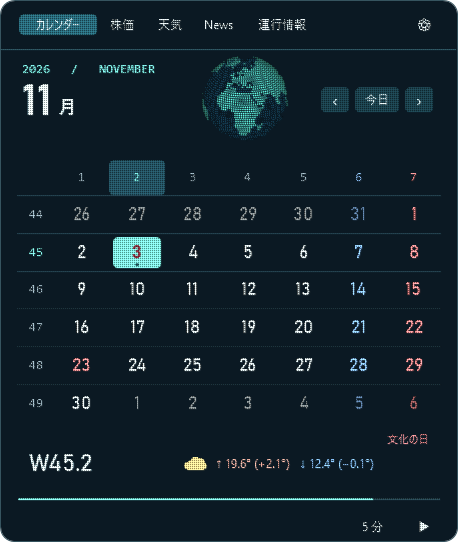
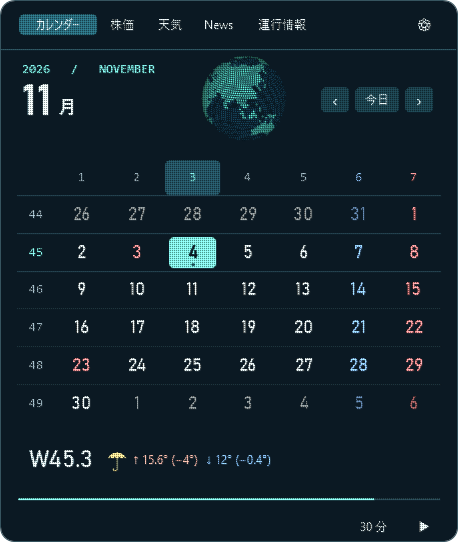
Align calendar summary and holiday on one row with a tighter weather gap

diff --git a/src/Calendar.xaml b/src/Calendar.xaml
@@ -73,13 +73,13 @@
       <Grid Name="Dates" Grid.Row="1" Margin="16,10,16,8"/>
       <Border Grid.Row="2" Background="#152E39" CornerRadius="7" Margin="16,0,16,7" Padding="12,0">
         <Grid>
-          <Grid.ColumnDefinitions><ColumnDefinition Width="100"/><ColumnDefinition/></Grid.ColumnDefinitions>
-          <TextBlock Name="SelectedDate" FontSize="24" FontFamily="Bahnschrift" VerticalAlignment="Center" Margin="0,8,0,0"/>
-          <StackPanel Name="TodayWeatherGroup" Grid.Column="1" Orientation="Horizontal" HorizontalAlignment="Center" VerticalAlignment="Center" Margin="0,8,0,0">
+          <Grid.ColumnDefinitions><ColumnDefinition Width="78"/><ColumnDefinition Width="Auto"/><ColumnDefinition/></Grid.ColumnDefinitions>
+          <TextBlock Name="SelectedDate" FontSize="24" FontFamily="Bahnschrift" VerticalAlignment="Center" HorizontalAlignment="Left"/>
+          <StackPanel Name="TodayWeatherGroup" Grid.Column="1" Orientation="Horizontal" HorizontalAlignment="Left" VerticalAlignment="Center">
             <TextBlock Name="TodayWeather" Text="" FontSize="26" FontFamily="Segoe UI Symbol" Foreground="#F4DD8E" VerticalAlignment="Center"/>
-            <StackPanel Name="TodayTemperatures" Orientation="Horizontal" Margin="9,0,0,0" VerticalAlignment="Center"><TextBlock Name="TodayHigh" FontSize="12" Foreground="#F4B09F"/><TextBlock Name="TodayLow" FontSize="12" Foreground="#8EC5FF" Margin="10,0,0,0"/></StackPanel>
+            <StackPanel Name="TodayTemperatures" Orientation="Horizontal" Margin="6,0,0,0" VerticalAlignment="Center"><TextBlock Name="TodayHigh" FontSize="12" Foreground="#F4B09F"/><TextBlock Name="TodayLow" FontSize="12" Foreground="#8EC5FF" Margin="8,0,0,0"/></StackPanel>
           </StackPanel>
-          <TextBlock Name="HolidayName" Grid.Column="1" MaxWidth="190" TextTrimming="CharacterEllipsis" FontSize="11" Foreground="#FF9699" HorizontalAlignment="Right" VerticalAlignment="Top" Margin="0,2,0,0"/>
+          <TextBlock Name="HolidayName" Grid.Column="2" TextTrimming="CharacterEllipsis" ToolTip="{Binding Text, RelativeSource={RelativeSource Self}}" FontSize="11" Foreground="#FF9699" VerticalAlignment="Center" Margin="8,0,0,0"/>
 
         </Grid>
       </Border>
